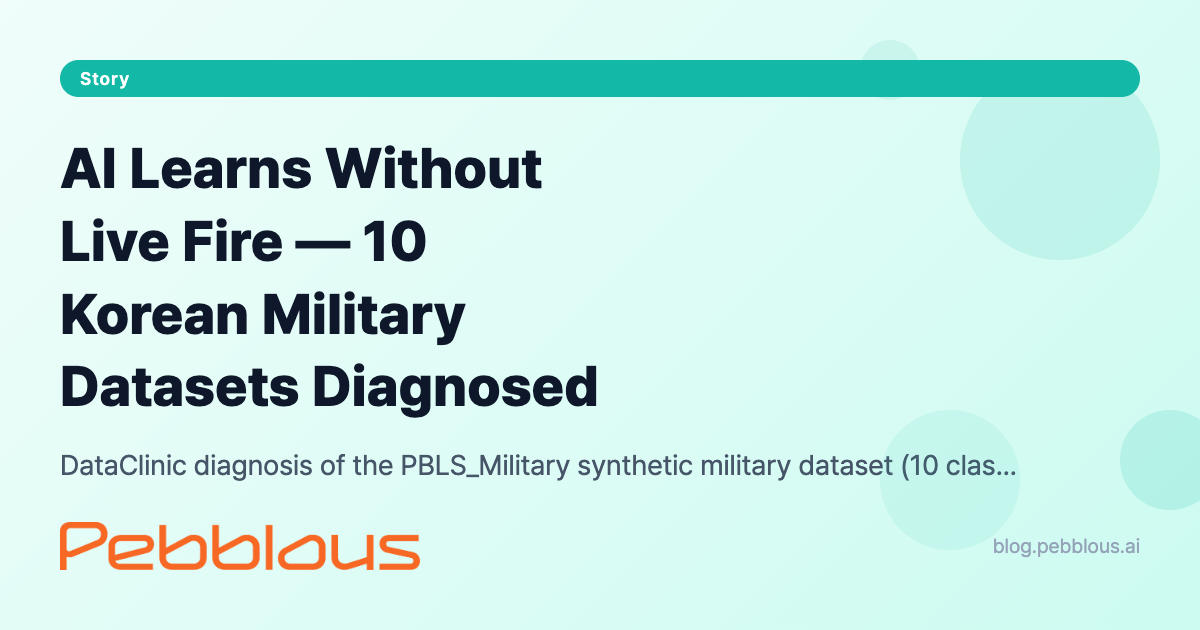
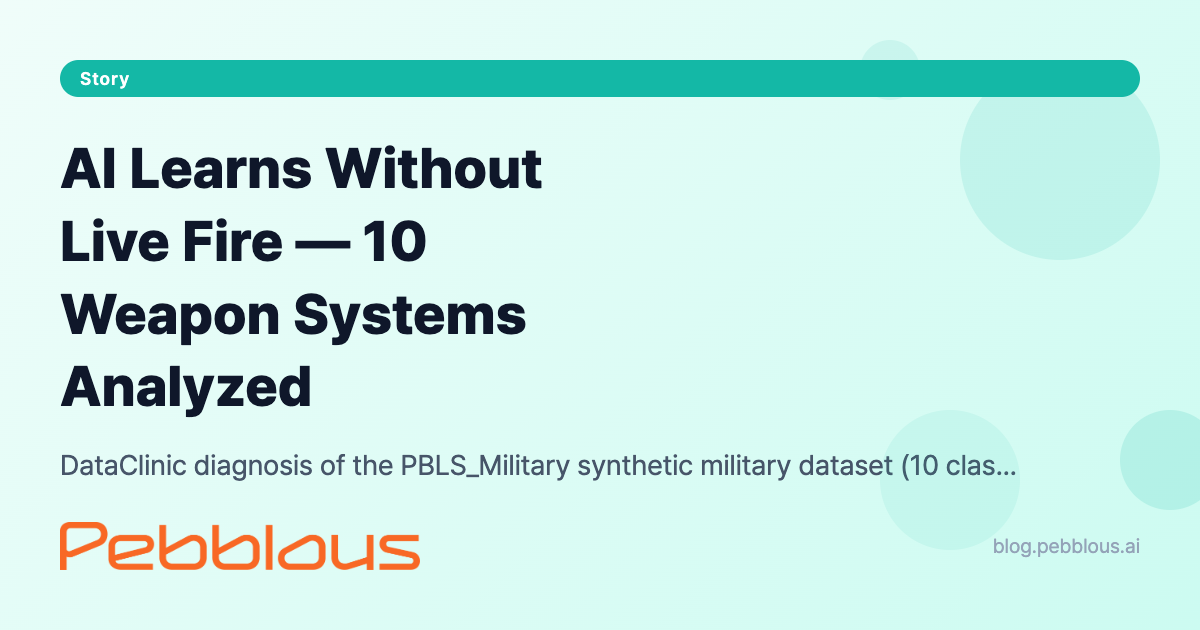
EN OG 제목 축약: 4줄 이내로 조정

Changed region(s): [[0.0308, 0.573, 0.5242, 0.6635], [0.0308, 0.4524, 0.4625, 0.5429]]

diff --git a/story/dataclinic-report-224-pbls-military-story-pb/en/index.html b/story/dataclinic-report-224-pbls-military-story-pb/en/index.html
@@ -18,7 +18,7 @@
     <link rel="alternate" hreflang="x-default" href="https://blog.pebblous.ai/story/dataclinic-report-224-pbls-military-story-pb/en/">
 
     <!-- Open Graph -->
-    <meta property="og:title" content="AI Learns Without Live Fire — 10 Korean Military Datasets Diagnosed">
+    <meta property="og:title" content="AI Learns Without Live Fire — 10 Weapon Systems Analyzed">
     <meta property="og:description" content="DataClinic diagnosis of the PBLS_Military synthetic military dataset (10 classes, 3,171 images). Korea's top defense exports including K-2 Black Panther and K-9 Thunder enter the AI battlefield as synthetic data.">
     <meta property="og:type" content="article">
     <meta property="og:url" content="https://blog.pebblous.ai/story/dataclinic-report-224-pbls-military-story-pb/en/">
